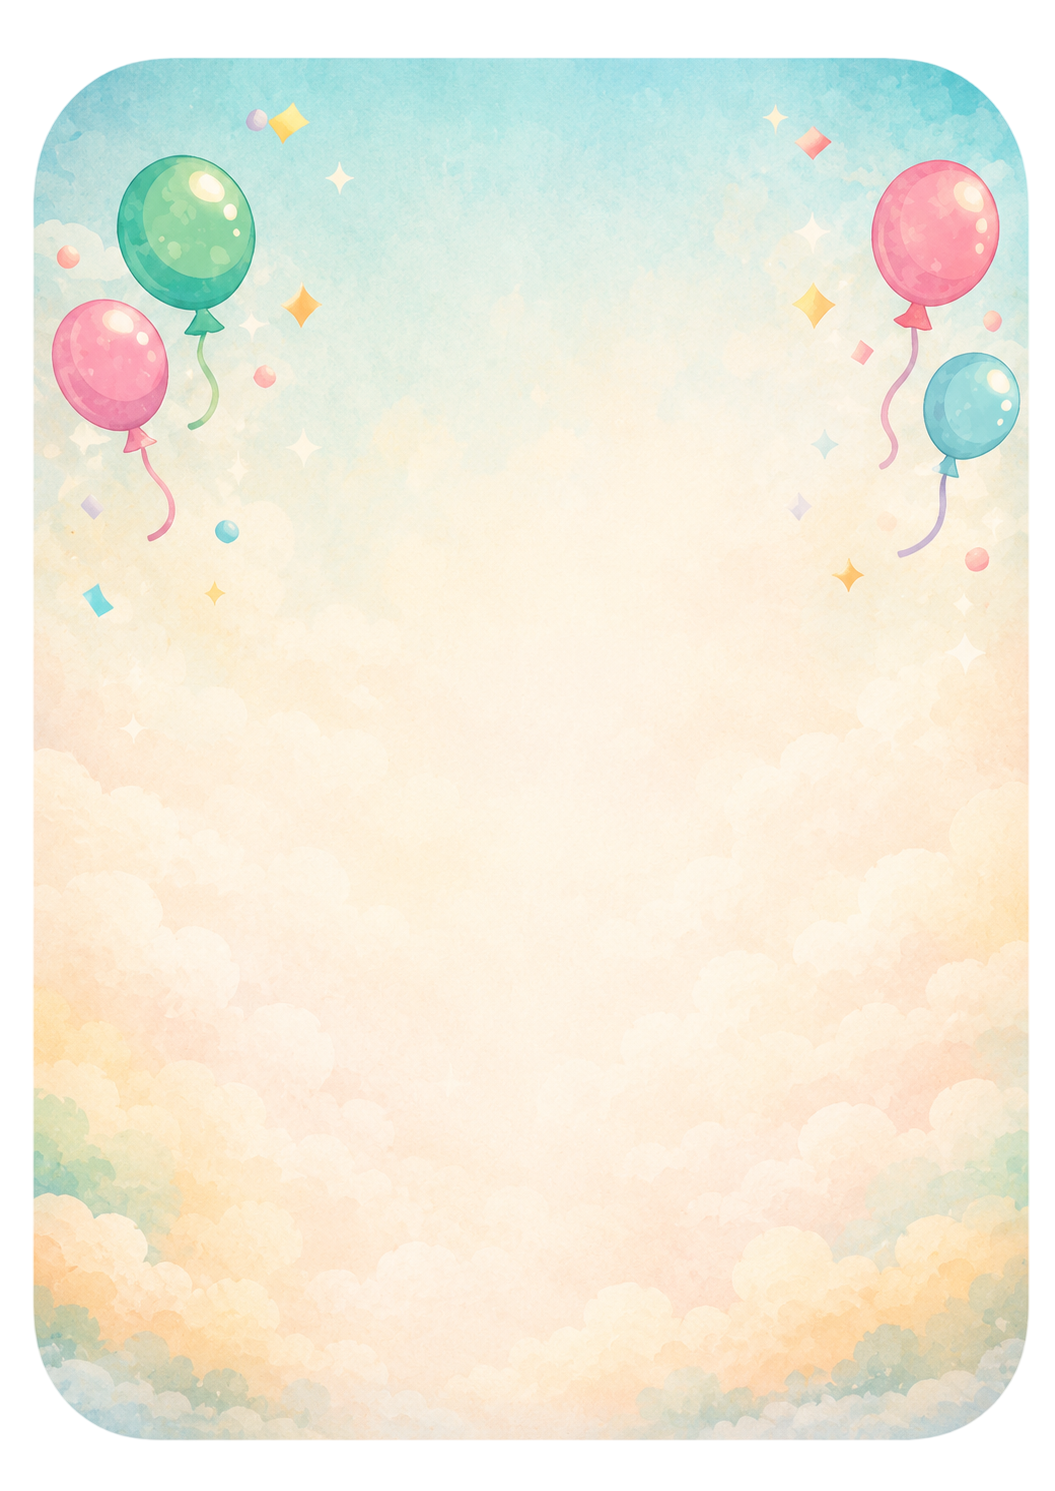
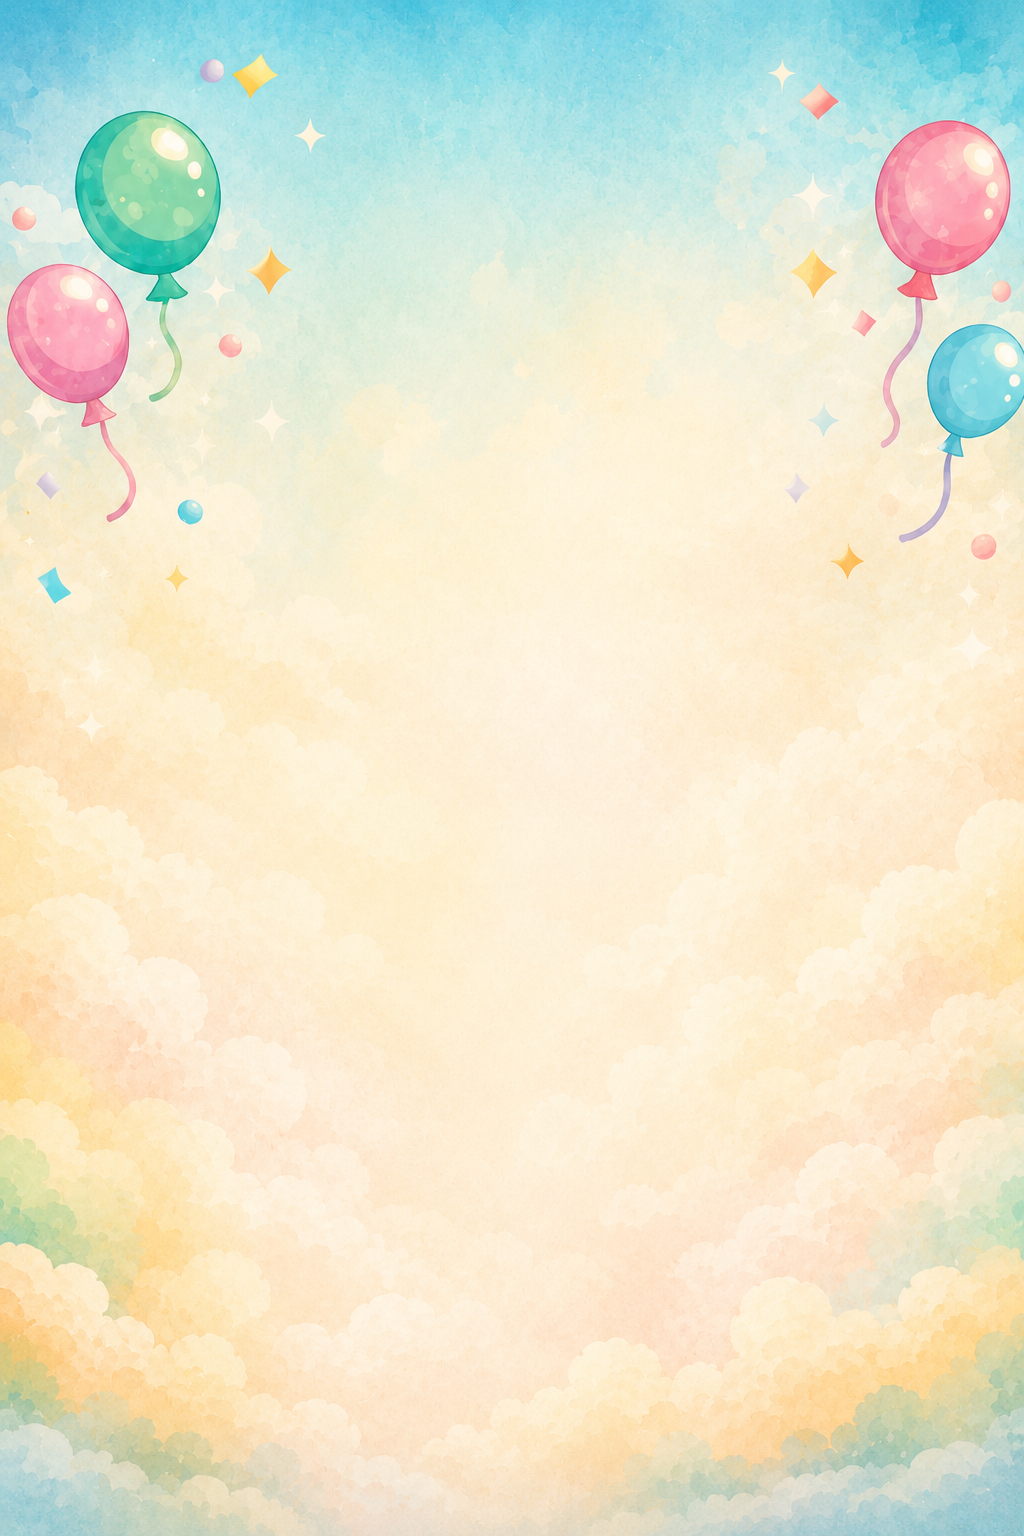
feat: add celebration sticker screen

diff --git a/src/screens/lessons/ChildLessonScreean.js b/src/screens/lessons/ChildLessonScreean.js
@@ -9,34 +9,56 @@ const ChildLessonScreen = ({ navigation, route }) => {
   const { menuItems = [], initialIndex = 0 } = route.params || {};
 
   const [currentIndex, setCurrentIndex] = useState(initialIndex);
+
   const [isCelebrating, setIsCelebrating] = useState(false);
   const [showStickerPopup, setShowStickerPopup] = useState(false);
   const [showFinishPopup, setShowFinishPopup] = useState(false);
+  
 
   const totalSteps = menuItems.length > 0 ? menuItems.length : 1;
   const currentItem = menuItems[currentIndex] || { title: 'Carregando...' };
 
+  // const handleNextStep = () => {
+  //   setShowStickerPopup(true);
+  //   setTimeout(() => {
+  //     setShowStickerPopup(false);
+  //     setIsCelebrating(true);
+  //   }, 1500);
+  // };
+
+  // const onAnimationComplete = () => {
+  //   setIsCelebrating(false);
+
+  //   if (currentIndex < totalSteps - 1) {
+  //     setCurrentIndex(currentIndex + 1);
+  //   } else {
+  //     setShowFinishPopup(true);
+  //   }
+  // };
+
+  // const handleFinishModule = () => {
+  //   setShowFinishPopup(false);
+  //   navigation.goBack();
+  // };
+
   const handleNextStep = () => {
-    setShowStickerPopup(true);
+    // 1. Navega imediatamente para a nova tela de conquista
+    navigation.navigate('StickerAchievementScreen');
+
+    // 2. Atrasa a troca do vídeo em meio segundo. 
+    // Isso garante que o usuário não veja o vídeo mudando no fundo enquanto a transição de tela acontece.
     setTimeout(() => {
-      setShowStickerPopup(false);
-      setIsCelebrating(true);
-    }, 1500);
-  };
-
-  const onAnimationComplete = () => {
-    setIsCelebrating(false);
-
-    if (currentIndex < totalSteps - 1) {
-      setCurrentIndex(currentIndex + 1);
-    } else {
-      setShowFinishPopup(true);
-    }
+      if (currentIndex < totalSteps - 1) {
+        setCurrentIndex(currentIndex + 1);
+      } else {
+        setShowFinishPopup(true); // Se for o último vídeo, prepara o pop-up de troféu para quando ele voltar
+      }
+    }, 500); 
   };
 
   const handleFinishModule = () => {
     setShowFinishPopup(false);
-    navigation.goBack();
+    navigation.navigate('Home'); // Vai para a Home em vez de voltar, já que o módulo acabou
   };
 
   return (
@@ -98,7 +120,6 @@ const ChildLessonScreen = ({ navigation, route }) => {
         <TouchableOpacity
           style={styles.nextButton}
           onPress={handleNextStep}
-          disabled={showStickerPopup || isCelebrating}
           activeOpacity={0.8}
         >
           <Text style={styles.nextButtonText}>
@@ -118,20 +139,7 @@ const ChildLessonScreen = ({ navigation, route }) => {
           ))}
         </View>
       </ScrollView>
-
-      <FloatingBalloons
-        visible={isCelebrating}
-        onComplete={onAnimationComplete}
-      />
-      {showStickerPopup && (
-        <BlurView intensity={40} tint="dark" style={styles.overlay}>
-          <View style={styles.stickerPopupBox}>
-            <Text style={styles.stickerPopupTitle}>QUE LEGAL, VOCÊ GANHOU UM ADESIVO!</Text>
-            <FontAwesome5 name="star" size={80} color="#F1C40F" solid />
-          </View>
-        </BlurView>
-      )}
-
+      
       {showFinishPopup && (
         <BlurView intensity={70} tint="dark" style={styles.overlay}>
           <View style={styles.finishPopupBox}>
@@ -139,7 +147,7 @@ const ChildLessonScreen = ({ navigation, route }) => {
             <Text style={styles.finishTitle}>Parabéns!</Text>
             <Text style={styles.finishText}>Você completou todas as lições. Continue cuidando bem do seu sorriso!</Text>
             <TouchableOpacity style={styles.finishButton} onPress={handleFinishModule}>
-              <Text style={styles.finishButtonText}>VOLTAR AO MENU</Text>
+              <Text style={styles.finishButtonText}>VOLTAR À TELA INICIAL</Text>
             </TouchableOpacity>
           </View>
         </BlurView>

diff --git a/src/screens/goals/StickerAchievementScreen.js b/src/screens/goals/StickerAchievementScreen.js
@@ -30,7 +30,7 @@ const StickerAchievementScreen = ({ navigation, route }) => {
             resizeMode="cover"
         >
             <SafeAreaView style={styles.container}>
-                
+
                 {/* 1. View de Topo com Balões e Confetes (Sobreposição) */}
                 <View style={styles.headerDecoration}>
                     {/* Balão Rosa Grande - Esquerda */}
@@ -64,13 +64,13 @@ const StickerAchievementScreen = ({ navigation, route }) => {
 
                 {/* 2. Área Central de Conteúdo */}
                 <View style={styles.content}>
-                    
+
                     {/* Título de Parabéns */}
                     <Text style={styles.mainTitle}>Parabéns!</Text>
 
                     {/* Avatar das Crianças (Menino e Menina) */}
                     <View style={styles.avatarContainer}>
-                        <Image 
+                        <Image
                             source={require('../../assets/sticker_pop.png')} // Imagem isolada do avatar
                             style={styles.avatarImage}
                             resizeMode="contain"
@@ -84,14 +84,14 @@ const StickerAchievementScreen = ({ navigation, route }) => {
                     <View style={styles.adesivoHighlight}>
                         {/* Efeito de Brilho Estelar no fundo */}
                         <View style={styles.brilhoStars}>
-                            <Ionicons name="star" size={20} color="#FFF" style={{position: 'absolute', top: 10, left: 10}} />
-                            <Ionicons name="star" size={16} color="#FFF" style={{position: 'absolute', bottom: 15, right: 15}} />
-                            <Ionicons name="star" size={12} color="#FFF" style={{position: 'absolute', top: 30, right: 30}} />
+                            <Ionicons name="star" size={20} color="#FFF" style={{ position: 'absolute', top: 10, left: 10 }} />
+                            <Ionicons name="star" size={16} color="#FFF" style={{ position: 'absolute', bottom: 15, right: 15 }} />
+                            <Ionicons name="star" size={12} color="#FFF" style={{ position: 'absolute', top: 30, right: 30 }} />
                         </View>
-                        
+
                         {/* O Adesivo Real */}
-                        <Image 
-                            source={require('../../assets/adesivo_dente_escovando.png')} // Imagem do adesivo real
+                        <Image
+                            source={require('../../assets/stickers/sticker1.png')} // Imagem do adesivo real
                             style={styles.adesivoImage}
                             resizeMode="contain"
                         />
@@ -113,7 +113,7 @@ const StickerAchievementScreen = ({ navigation, route }) => {
                         <View style={styles.pageDot} />
                         <View style={styles.pageDot} />
                     </View>
-                    
+
                 </View>
 
             </SafeAreaView>
@@ -132,7 +132,7 @@ const styles = StyleSheet.create({
         backgroundColor: 'transparent',
         alignItems: 'center'
     },
-    
+
     // Decoração do Topo (Balões e Confetes)
     headerDecoration: {
         position: 'absolute',
@@ -181,7 +181,7 @@ const styles = StyleSheet.create({
         textShadowOffset: { width: 0, height: 2 },
         textShadowRadius: 4
     },
-    
+
     avatarContainer: {
         width: '80%',
         height: 120,

diff --git a/src/routes/AppRoutes.js b/src/routes/AppRoutes.js
@@ -7,6 +7,7 @@ import ChildLessonScreen from '../screens/lessons/ChildLessonScreean';
 import WeeklyGoalsScreen from '../screens/goals/WeeklyGoalsScreen';
 import AdultLessonScreen from '../screens/lessons/AdultLessonScreen';
 import StickerGalleryScreen from '../screens/goals/StickerGalleryScreen';
+import StickerAchievementScreen from '../screens/goals/StickerAchievementScreen';
 
 const Stack = createNativeStackNavigator();
 
@@ -72,6 +73,14 @@ const AppRoutes = () => {
                 options={{
                     headerShown: false,
                     animation: 'slide_from_right'
+                }}
+            />
+            <Stack.Screen
+                name="StickerAchievementScreen"
+                component={StickerAchievementScreen}
+                options={{
+                    headerShown: false,
+                    presentation: 'modal',
                 }}
             />
         </Stack.Navigator>
